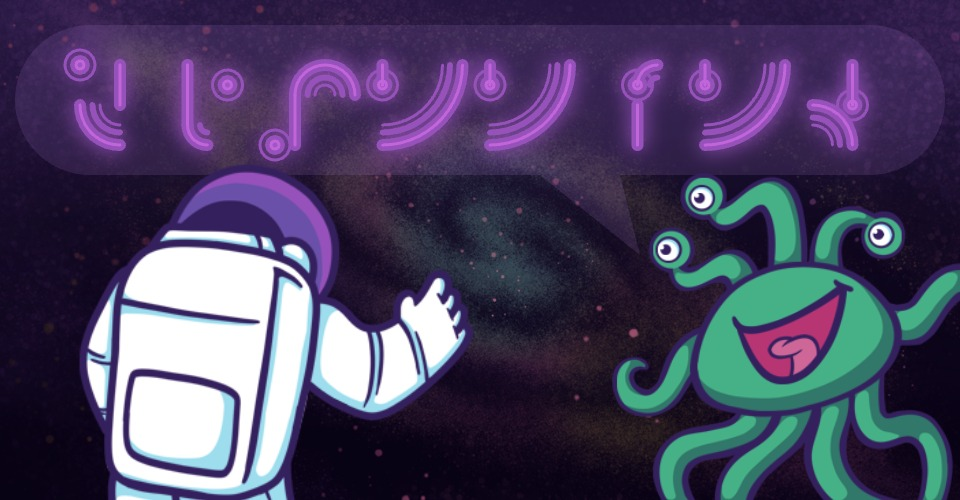
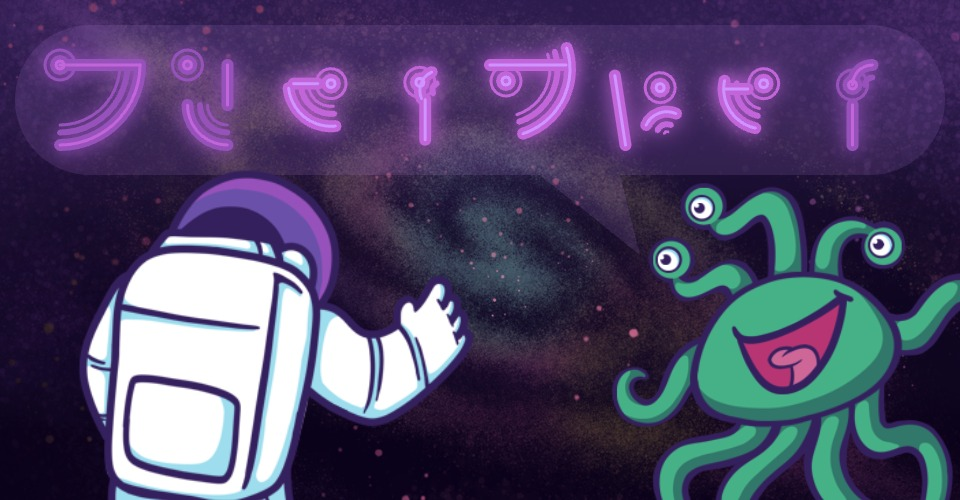
push for share 2?

Changed region(s): [[0.0312, 0.06, 1.0, 1.0]]

diff --git a/index.html b/index.html
@@ -5,7 +5,17 @@
     <script language="javascript" type="text/javascript" src="letters.js"></script>
     <script language="javascript" type="text/javascript" src="draw_letters.js"></script>
     <script language="javascript" type="text/javascript" src="exhibition.js"></script>
+    <style>
+        body {
+            background-color:#ffffff;
 
+        }
+
+
+
+
+
+    </style>
   <meta
     name="Letterforms by UWCC"
     content="Code driven letterforms."
@@ -25,7 +35,7 @@
   <meta name="twitter:image" content="https://uwcc.github.io/23.MDDN242_Parametric_Design/preview.jpg" />
 
 </head>
-<body style="background-color:white">
+<body>
     <div class="outer">
         <div class="inner">
             <div id="canvasContainer"></div>

diff --git a/sketch.js b/sketch.js
@@ -125,7 +125,7 @@ const letter = {
 
 const letterA = {
   "arcX": 15,
-  "arcY": -30 + (strW/2),
+  "arcY": -30 + (12/2),
   "arcR": 90,
   "arcStart": -180,
   "arcStop": 0,
@@ -194,7 +194,7 @@ function setup () {
 
   // color/stroke setup
   stroke(strokeColor);
-  strokeWeight(strW);
+  strokeWeight(12);
 
   // with no animation, redrawing the screen is not necessary
   noLoop();

diff --git a/README.md b/README.md
@@ -5,16 +5,20 @@
 # TITLE
 by Jess Merriman
 
-Pages: https://25-mddn242.github.io/letterforms-JehSikah/ 
+_Pages: https://25-mddn242.github.io/letterforms-JehSikah/ _
 
 ### MY DESIGN PROCESS
 
+#### PRECEDENTS
 My design process started by looking into interesting fonts for inspiration. 
 Initially, I was inspired by funky 70's fonts cause of their fun aethstetic. From these, I mainly wanted to implement the bright colours and fun curves.
 
 ///INSERT IMAGE///
 
-Eventually, I decided to go a new direction.
+I first tried mimicing the flow with bezier curves, however, that was quickly pushing me to the variable limit as well as not looking quite how I wanted it. Trying to manipulate a curve into a nice letter was taking me an embarrassingly long time, so I eventually decided to go a new direction.
+
+
+#### RESET
 
 Inspired by Minecraft's enchanting table UI, I chose to replicate the Standard Galactic Alphabet. To stay under the variable limit, I aimed to create the letters in the least amount of parts possible while still looking relatively similar to the original font.
 
@@ -27,27 +31,37 @@ I started by taking an image of the original alphabet and drawing over it using 
 
 ///INSERT IMAGE///
 
+#### CODE
+
 After planning out my alphabet, I coded a 5x5 grid and coordinated the x and y values of each shape to be centered in a cell of the grid. This ensured every letter was drawn within the same scale and alignment.
 
-///INSERT IMAGE///
-
 After drawing out the bare bones of my font, I experimented with how I could make it more visually interesting.
+
 I began by colour picking some colours from the Minecraft UI, usingg a light tan bfor my background and a purple for my font. 
+
 I then added a glowing effect to incorporate the magical aspect of my enchanting precedent. This gave off a neon sign-esque vibe so I used a more vibrant purple for the text and added a lighter stroke in the middle to really mimic neon signs.
 Finally, I added extra thinner strokes to the arc and circle parts of my letters to give a little more visual interest.
 
 At this point, I was pretty happy with my font, but it was still quite plain to look at, especially compared to a lot of other shared works in class. 
 
+
+#### DECORATING
+
 Instead of adding more to my font, I added to the background. 
 Since my font is pretty unintelligable, for my first test I drew a simple baby learning how to speak. 
+
 I further developed this idea into an alien trying to communicate with a human and developed assets of an astronaut, a green tentacly alien I've dubbed "Albert", and a galaxy scene for the background. 
 
 I separated Albert into his limbs, main body and mouth in order to animate him talking when interacting with the exhibition, causing him to open his mouth and his body to enlarge. This also presented another optional challenge of making Albert not talk when typing non-alphabetical or non-numerical characters which I was able to implement with the help of Stack Overflow.
 
-While on an animation high, I thought it'd be nice to add a bit of movement to the scene so it didnt look so static. Seeing as my scene is in space, I gave the astronaut and Albert a subtle bob up and down as if in cartoony zero gravity. I also made them bob on different waves so that they weren't in perfect sync and looked more dynamic.
+While on an animation high, I thought it'd be nice to add a bit of movement to the scene so it didnt look so static. Seeing as my scene is in space, I gave the astronaut and Albert a subtle bob up and down as if in cartoony zero gravity. I also made them bob on different waves so that they weren't in perfect sync and looked more dynamic. I also added a dark tint over the background that darkens and lightens slightly to immitate the galaxy glowing.
 
 Finally, I added a feature that highlights each letter when typed to bring attention back to the font. This feature looks pretty nice when the code autoswaps words.
 
+
+#### REFLECTION
+
+Overall, I find my final design quite endearing. 
 
 
 
